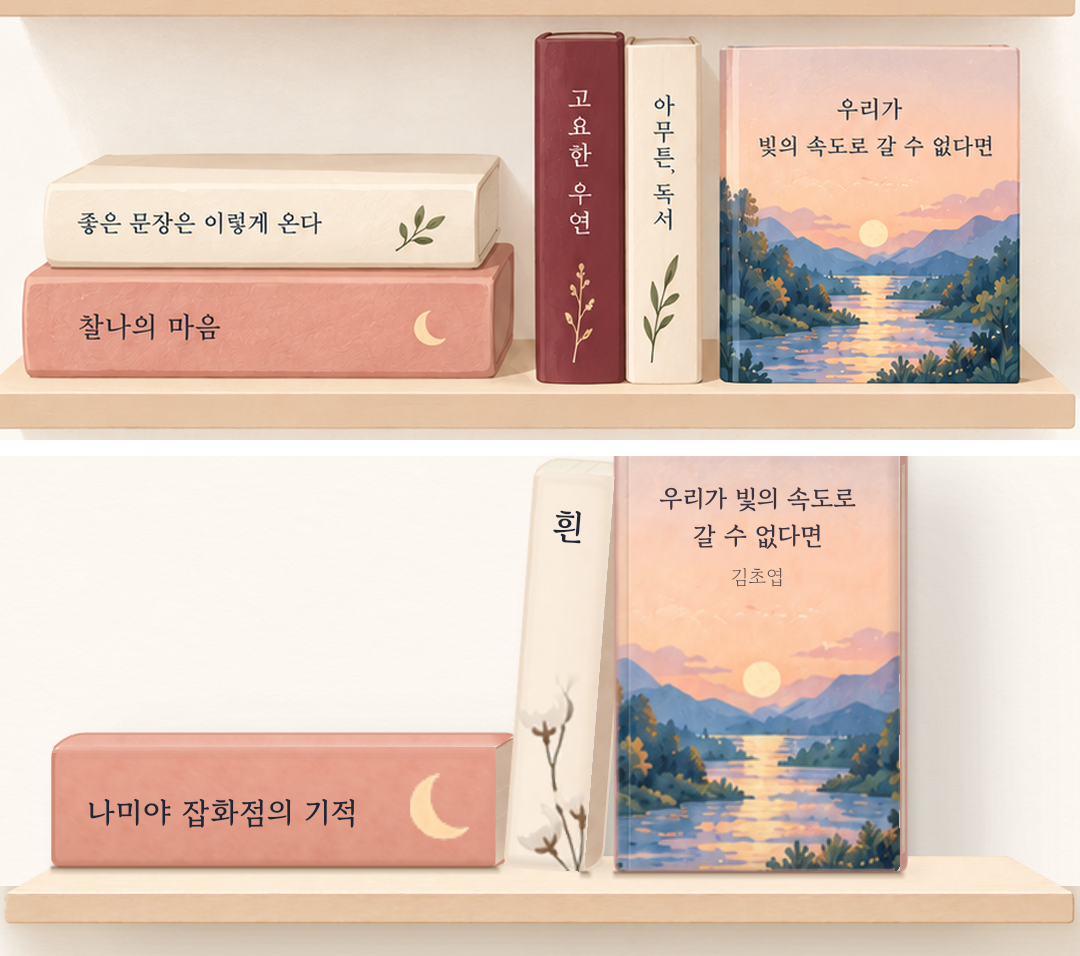
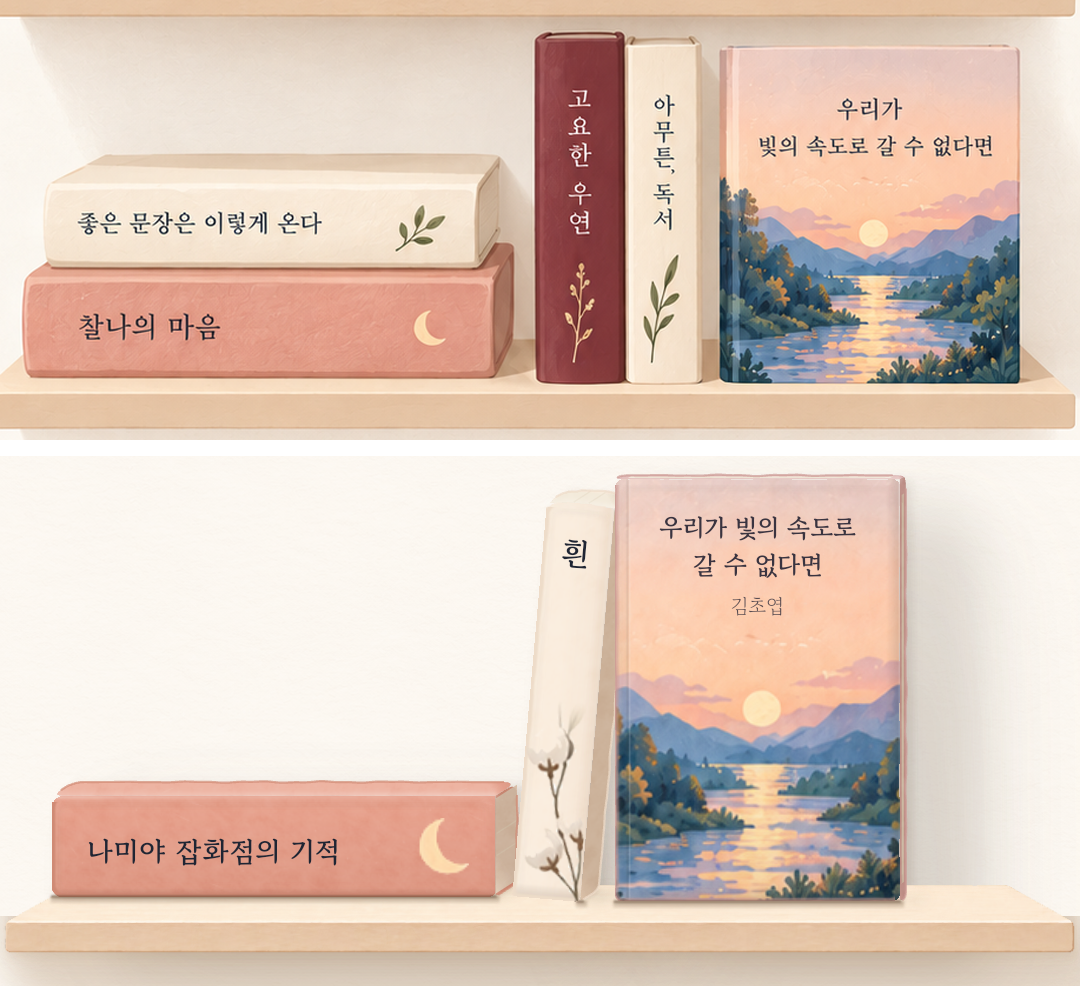
책 두께 더 얇게(최소 22DU, 실제 비율), 상자 면 손그림 윤곽·볼록한 머리, 바깥 변만 연한 선

diff --git a/app/src/ui/box/BoxShelf.tsx b/app/src/ui/box/BoxShelf.tsx
@@ -10,7 +10,7 @@ import { BRUSH_DETAIL } from '@/domain/body-art.generated';
 import { DESIGN_WIDTH, SHELF } from '@/domain/geometry';
 import type { BookFrame, Point } from '@/domain/shelf-scene';
 import type { Book, Pose } from '@/domain/types';
-import { edgeFactor, Grain, mix, PAGE, PAGE_LINE, scaleColor } from '@/ui/book/BookBody';
+import { edgeFactor, Grain, HEAD_BOW, mix, PAGE, PAGE_LINE, scaleColor } from '@/ui/book/BookBody';
 import { BookRenderer } from '@/ui/book/BookRenderer';
 import { ShelfFront, ShelfImage } from '@/ui/shelf/ShelfRow';
 import { ShelfShadows } from '@/ui/shelf/ShelfShadows';
@@ -56,25 +56,135 @@ export function roundedPath(pts: Point[], radii: number[]) {
   return path;
 }
 
-// 면 네 꼭짓점 [앞 A, 앞 B, 뒤 B, 뒤 A]의 둥글기. 다른 면과 이어지는 앞 모서리는 곧게, 바깥 모서리는 둥글게(시안: 베개처럼 둥근 책).
-function faceRadii(kind: Face['kind'], s: number) {
+// 손으로 그은 선의 흔들림(0 근처 부드러운 잡음). t는 선을 따라간 거리(px), s = 1DU px.
+function wobbleAt(t: number, s: number, seed: number) {
+  return 0.65 * Math.sin((t / (24 * s)) * Math.PI * 2 + seed) + 0.35 * Math.sin((t / (10 * s)) * Math.PI * 2 + seed * 2.3);
+}
+
+const sub = (a: Point, b: Point) => ({ x: a.x - b.x, y: a.y - b.y });
+const unit = (v: Point) => {
+  const l = Math.hypot(v.x, v.y) || 1;
+  return { x: v.x / l, y: v.y / l };
+};
+
+// 부드러운 면 윤곽: 모서리마다 둥글기(radii), 변마다 손그림 흔들림(wob)과 볼록함(bulge: 변 가운데를 이 벡터만큼 민다).
+// outer: 바깥 실루엣에 해당하는 변(연한 선을 그을 곳). 다른 면과 이어지는 변은 곧게 두고 선을 긋지 않는다.
+export function softFace(pts: Point[], opt: { radii: number[]; wob: boolean[]; outer: boolean[]; bulge?: (Point | null)[]; s: number; seed: number }) {
+  const { radii, wob, outer, bulge, s, seed } = opt;
+  const n = pts.length;
+  const amp = 0.32 * s;
+  const cutAt = (i: number, j: number) => {
+    const a = pts[i];
+    const b = pts[j];
+    const len = Math.hypot(b.x - a.x, b.y - a.y) || 1;
+    const t = Math.min(radii[i] ?? 0, len / 2) / len;
+    return { x: a.x + (b.x - a.x) * t, y: a.y + (b.y - a.y) * t };
+  };
+  const p0 = pts.map((_, i) => cutAt(i, (i + n - 1) % n));
+  const p1 = pts.map((_, i) => cutAt(i, (i + 1) % n));
+  const corner = pts.map((c, i) => {
+    if (!(radii[i] > 0)) return [c];
+    const out: Point[] = [];
+    for (let k = 0; k <= 5; k++) {
+      const t = k / 5;
+      const u = 1 - t;
+      out.push({ x: u * u * p0[i].x + 2 * u * t * c.x + t * t * p1[i].x, y: u * u * p0[i].y + 2 * u * t * c.y + t * t * p1[i].y });
+    }
+    return out;
+  });
+  const edge = pts.map((a, i) => {
+    const b = pts[(i + 1) % n];
+    const from = p1[i];
+    const to = p0[(i + 1) % n];
+    const L = Math.hypot(to.x - from.x, to.y - from.y);
+    const full = Math.hypot(b.x - a.x, b.y - a.y) || 1;
+    const d = unit(sub(to, from));
+    const nrm = { x: -d.y, y: d.x };
+    const out: Point[] = [];
+    const steps = Math.max(1, Math.floor(L / (1.5 * s)));
+    for (let k = 1; k < steps; k++) {
+      const t = (k / steps) * L;
+      const q = { x: from.x + d.x * t, y: from.y + d.y * t };
+      const u = Math.hypot(q.x - a.x, q.y - a.y) / full;
+      let off = 0;
+      if (wob[i]) off = amp * wobbleAt(t + i * 37 * s, s, seed) * Math.sin((Math.PI * k) / steps);
+      const bv = bulge?.[i];
+      const bs = Math.sin(Math.PI * u);
+      out.push({ x: q.x + nrm.x * off + (bv ? bv.x * bs : 0), y: q.y + nrm.y * off + (bv ? bv.y * bs : 0) });
+    }
+    return out;
+  });
+  const all: Point[] = [];
+  for (let i = 0; i < n; i++) all.push(...corner[i], ...edge[i]);
+  // 바깥 변 이어 긋기
+  const runs: Point[][] = [];
+  const start = outer.findIndex((o) => !o);
+  if (start < 0) runs.push([...all, all[0]]);
+  else {
+    let run: Point[] = [];
+    for (let k = 1; k <= n; k++) {
+      const i = (start + k) % n;
+      if (!outer[i]) continue;
+      const prevOuter = outer[(i + n - 1) % n];
+      if (prevOuter) run.push(...corner[i]);
+      else run = [p1[i]];
+      run.push(...edge[i]);
+      const nx = (i + 1) % n;
+      if (!outer[nx]) {
+        run.push(p0[nx]);
+        runs.push(run);
+        run = [];
+      }
+    }
+  }
+  return { all, runs };
+}
+
+// 면 네 꼭짓점의 둥글기·흔들림·바깥 변. visibleFaces 순서:
+// top = [A 앞 오른쪽 위(옆면과 공유), B 앞 왼쪽 위, Bb 뒤 왼쪽, Ab 뒤 오른쪽(옆면과 공유)], 변 0 = 앞, 1 = 왼쪽, 2 = 뒤, 3 = 옆면과 공유
+// right = [A 앞 오른쪽 아래, B 앞 오른쪽 위(윗면과 공유), Bb 뒤 위, Ab 뒤 아래], 변 0 = 앞, 1 = 윗면과 공유, 2 = 뒤, 3 = 바닥
+function faceStyle(kind: Face['kind'], s: number) {
   switch (kind) {
-    case 'top': // A = 앞 왼쪽 위(앞면의 둥근 모서리와 이어짐), B = 앞 오른쪽 위(옆면과 공유)
-      return [4 * s, 0, 5 * s, 4 * s];
-    case 'right': // A = 앞 오른쪽 아래(바닥), B = 앞 오른쪽 위(윗면과 공유)
-      return [1.5 * s, 0, 5 * s, 2.5 * s];
+    case 'top':
+      return { radii: [0, 4 * s, 4 * s, 5 * s], wob: [false, true, true, false], outer: [false, true, true, false] };
+    case 'right':
+      return { radii: [1.5 * s, 0, 5 * s, 2.5 * s], wob: [false, false, true, false], outer: [false, false, true, true] };
     default:
-      return [0, 0, 2 * s, 2 * s];
+      return { radii: [0, 0, 2 * s, 2 * s], wob: [false, true, true, true], outer: [false, true, true, true] };
   }
 }
 
 function FaceShape({ face, book, pose, s, px, grain }: { face: Face; book: Book; pose: Pose; s: number; px: Px; grain: ReturnType<typeof useImage> }) {
   const tone = toneOf(book, pose);
   const m = materialOf(pose, face.kind);
-  const [A, B, Bb, Ab] = face.poly.map(px);
-  const path = roundedPath([A, B, Bb, Ab], faceRadii(face.kind, s));
-  // 평행사변형 위의 점: u = 앞 모서리 A→B, v = 깊이 A→Ab
-  const P = (u: number, v: number) => ({ x: A.x + (B.x - A.x) * u + (Ab.x - A.x) * v, y: A.y + (B.y - A.y) * u + (Ab.y - A.y) * v });
+  let [A, B, Bb, Ab] = face.poly.map(px);
+  // 세운 책의 볼록한 머리(앞면과 같은 곡선): 윗면은 양끝이 bow만큼 내려오고 가운데가 솟는다. 옆면 위 모서리도 같이 내려온다.
+  const bow = pose === 'spine' ? HEAD_BOW * s : 0;
+  let bulge: (Point | null)[] | undefined;
+  if (bow && face.kind === 'top') {
+    const d = unit(sub(B, A));
+    let nIn = { x: -d.y, y: d.x };
+    const depthDir = sub(Ab, A);
+    if (nIn.x * depthDir.x + nIn.y * depthDir.y > 0) nIn = { x: -nIn.x, y: -nIn.y }; // 앞면 쪽
+    const sh = (p: Point) => ({ x: p.x + nIn.x * bow, y: p.y + nIn.y * bow });
+    [A, B, Bb, Ab] = [sh(A), sh(B), sh(Bb), sh(Ab)];
+    const up = { x: -nIn.x * bow, y: -nIn.y * bow };
+    bulge = [up, null, { x: up.x, y: up.y }, null];
+  } else if (bow && face.kind === 'right') {
+    const dn = unit(sub(A, B));
+    B = { x: B.x + dn.x * bow, y: B.y + dn.y * bow };
+    Bb = { x: Bb.x + dn.x * bow, y: Bb.y + dn.y * bow };
+  }
+  const st = faceStyle(face.kind, s);
+  const seed = [...book.id].reduce((h, c) => h + c.charCodeAt(0), 0) * 0.37 + face.kind.length;
+  const soft = softFace([A, B, Bb, Ab], { ...st, bulge, s, seed });
+  const path = Skia.Path.Polygon(soft.all, true);
+  // 평행사변형 위의 점: u = 앞 모서리 A→B, v = 깊이 A→Ab (볼록한 머리면 u 가운데가 솟는다)
+  const P = (u: number, v: number) => {
+    const bs = bulge?.[0] ? Math.sin(Math.PI * u) : 0;
+    const up = bulge?.[0] ?? { x: 0, y: 0 };
+    return { x: A.x + (B.x - A.x) * u + (Ab.x - A.x) * v + up.x * bs, y: A.y + (B.y - A.y) * u + (Ab.y - A.y) * v + up.y * bs };
+  };
   const len = Math.hypot(B.x - A.x, B.y - A.y) || 1;
   const depth = Math.hypot(Ab.x - A.x, Ab.y - A.y) || 1;
   const bu = Math.min(0.3, (1.0 * s) / len); // 표지 판 두께(앞 모서리 방향)
@@ -122,11 +232,15 @@ function FaceShape({ face, book, pose, s, px, grain }: { face: Face; book: Book;
       </Path>
       {/* 빛을 받는 둥근 모서리의 부드러운 광택(그늘 쪽 모서리에는 없다) */}
       {lit ? (
-        <Path path={Skia.Path.Polygon([A, B], false)} style="stroke" strokeWidth={1.6 * s} strokeCap="round">
+        <Path path={Skia.Path.Polygon(Array.from({ length: 13 }, (_, k) => P(k / 12, 0)), false)} style="stroke" strokeWidth={1.6 * s} strokeCap="round">
           <LinearGradient start={vec(A.x, A.y)} end={vec(B.x, B.y)} colors={['rgba(255,255,255,0.4)', 'rgba(255,255,255,0.2)']} />
           <BlurMask blur={0.9 * s} style="normal" />
         </Path>
       ) : null}
+      {/* 바깥 실루엣 변만 연한 같은 색 선(면 사이에는 긋지 않는다) */}
+      {soft.runs.map((r, k) => (
+        <Path key={`o${k}`} path={Skia.Path.Polygon(r, false)} style="stroke" strokeWidth={0.8 * s} strokeJoin="round" strokeCap="round" color={scaleColor(tone, edgeFactor(tone))} opacity={0.7} />
+      ))}
     </>
   );
 }
@@ -145,18 +259,6 @@ const DepthFaces = memo(function DepthFaces({ entries, cam, s, clear, height }: 
             .map((f) => (
               <FaceShape key={f.kind} face={f} book={book} pose={placed.pose} s={s} px={px} grain={grain} />
             ))}
-          {/* 상자 바깥 실루엣만 연한 같은 색 선 하나(면 사이에는 선을 긋지 않는다). 앞면 쪽은 앞면이 덮는다 */}
-          <Path
-            path={(() => {
-              const h = silhouette(cam, placed).map(px);
-              return roundedPath(h, h.map(() => 4 * s));
-            })()}
-            style="stroke"
-            strokeWidth={0.8 * s}
-            strokeJoin="round"
-            color={scaleColor(toneOf(book, placed.pose), edgeFactor(toneOf(book, placed.pose)))}
-            opacity={0.7}
-          />
         </Group>
       ))}
     </Canvas>

diff --git a/app/src/domain/__tests__/units.test.ts b/app/src/domain/__tests__/units.test.ts
@@ -30,8 +30,8 @@ describe('단위', () => {
     expect(bookThickness(book('thin', 110, 175, 100))).toBe(MIN_SPINE_DU);
     // 두꺼울수록 늘고, 300쪽은 약 35DU
     const t300 = bookThickness(book('a', 140, 210, 300));
-    expect(t300).toBeGreaterThan(33);
-    expect(t300).toBeLessThan(37);
+    expect(t300).toBeGreaterThan(27);
+    expect(t300).toBeLessThan(31);
     expect(bookThickness(book('b', 140, 210, 450))).toBeGreaterThan(t300);
   });
 
@@ -46,7 +46,7 @@ describe('단위', () => {
 });
 
 describe('선반 용량', () => {
-  it('보통 책(300쪽)은 세워서 10권까지, 11권째에서 넘친다', () => {
+  it('보통 책(300쪽)은 선반 폭을 두께로 나눈 만큼 세워지고, 한 권 더면 넘친다', () => {
     const books: BookMap = {};
     const layout = (n: number): ShelfLayout => ({
       version: 2,
@@ -55,9 +55,11 @@ describe('선반 용량', () => {
       placements: Array.from({ length: n }, (_, i) => ({ bookId: `b${i}`, shelfId: 's', order: i, pose: 'spine' as const, tilt: 0 as const })),
     });
     for (let i = 0; i < 20; i++) books[`b${i}`] = book(`b${i}`, 140, 210, 300);
-    // 300쪽 ≈ 35DU, 선반 366DU → 10권
-    expect(checkSpace(layout(10), books)).toBeNull();
-    expect(checkSpace(layout(11), books)).toBe('no-space');
+    // 300쪽 ≈ 29DU, 선반 366DU → 12권
+    const fit = Math.floor(SHELF_USABLE_WIDTH / bookThickness(books.b0));
+    expect(fit).toBe(12);
+    expect(checkSpace(layout(fit), books)).toBeNull();
+    expect(checkSpace(layout(fit + 1), books)).toBe('no-space');
   });
 
   it('예시 책장 세 줄이 모두 선반 안에 들어간다', () => {

diff --git a/app/src/domain/geometry.ts b/app/src/domain/geometry.ts
@@ -53,11 +53,11 @@ export const SHELF_USABLE_WIDTH = USABLE_W - SHELF.innerLeft - SHELF.innerRight;
 // 어느 기기에서든 한 선반에 들어가는 책 수가 같다.
 export const SHELF_LENGTH_MM = 480;
 export const DU_PER_MM = SHELF_USABLE_WIDTH / SHELF_LENGTH_MM;
-// 두께: 얇은 책(10mm 이하)도 세로 제목이 들어가게 최소 26DU로 두고,
-// 그보다 두꺼운 만큼은 실제 두께 차이에 비례해서 늘린다(실제 비율의 1.2배). 300쪽 ≈ 35DU, 450쪽 ≈ 43DU.
-export const MIN_SPINE_DU = 26;
+// 두께: 얇은 책(10mm 이하)도 세로 제목이 들어가게 최소 22DU로 두고(상자 모델은 앞면 전체가 책등이라 제목 폭이 넉넉하다),
+// 그보다 두꺼운 만큼은 실제 두께 차이 그대로 늘린다(실제 비율 1.0배). 300쪽 ≈ 29DU, 450쪽 ≈ 36DU.
+export const MIN_SPINE_DU = 22;
 export const MIN_SPINE_MM = 10;
-export const THICKNESS_GROWTH = 1.2;
+export const THICKNESS_GROWTH = 1.0;
 // 종이 한 쪽 두께(mm, 일반 도서 용지 약 0.12mm/장)와 앞뒤 표지 두께
 export const MM_PER_PAGE = 0.06;
 export const COVER_MM = 1.5;

diff --git a/app/src/ui/book/BookBody.tsx b/app/src/ui/book/BookBody.tsx
@@ -178,7 +178,8 @@ export function bodyOutline(w: number, h: number, s: number, seed: string, side 
   const wTop = flat ?? wTop0;
   const wRight = flat ?? wRight0;
   const wBottom = flat ?? wBottom0;
-  const headY = (x: number) => (side >= 0.999 ? 0 : bow * (1 - Math.sin((Math.PI * Math.min(x, sideX)) / sideX))); // 머리 곡선
+  // 머리 곡선(상자 모델에서도 세운 책은 볼록하게. 윗면이 같은 곡선을 따라간다). 누운 책 앞면은 평평
+  const headY = (x: number) => (lyingFront ? 0 : bow * (1 - Math.sin((Math.PI * Math.min(x, sideX)) / sideX)));
   const pts: Point[] = [];
   // 왼쪽 위 모서리(머리 곡선 높이에 맞춰 붙인다)
   const y0 = headY(r);

diff --git a/app/src/domain/__tests__/layout-engine.test.ts b/app/src/domain/__tests__/layout-engine.test.ts
@@ -256,7 +256,7 @@ describe('책 서랍', () => {
     expect(a.where).toBe('shelf');
     let l = a.layout;
     const placed: string[] = [];
-    for (let i = 0; i < 12; i++) {
+    for (let i = 0; i < 30; i++) {
       const id = `x${i}`;
       extra[id] = { ...books.b02, id };
       const r = addBook(l, extra, id);
